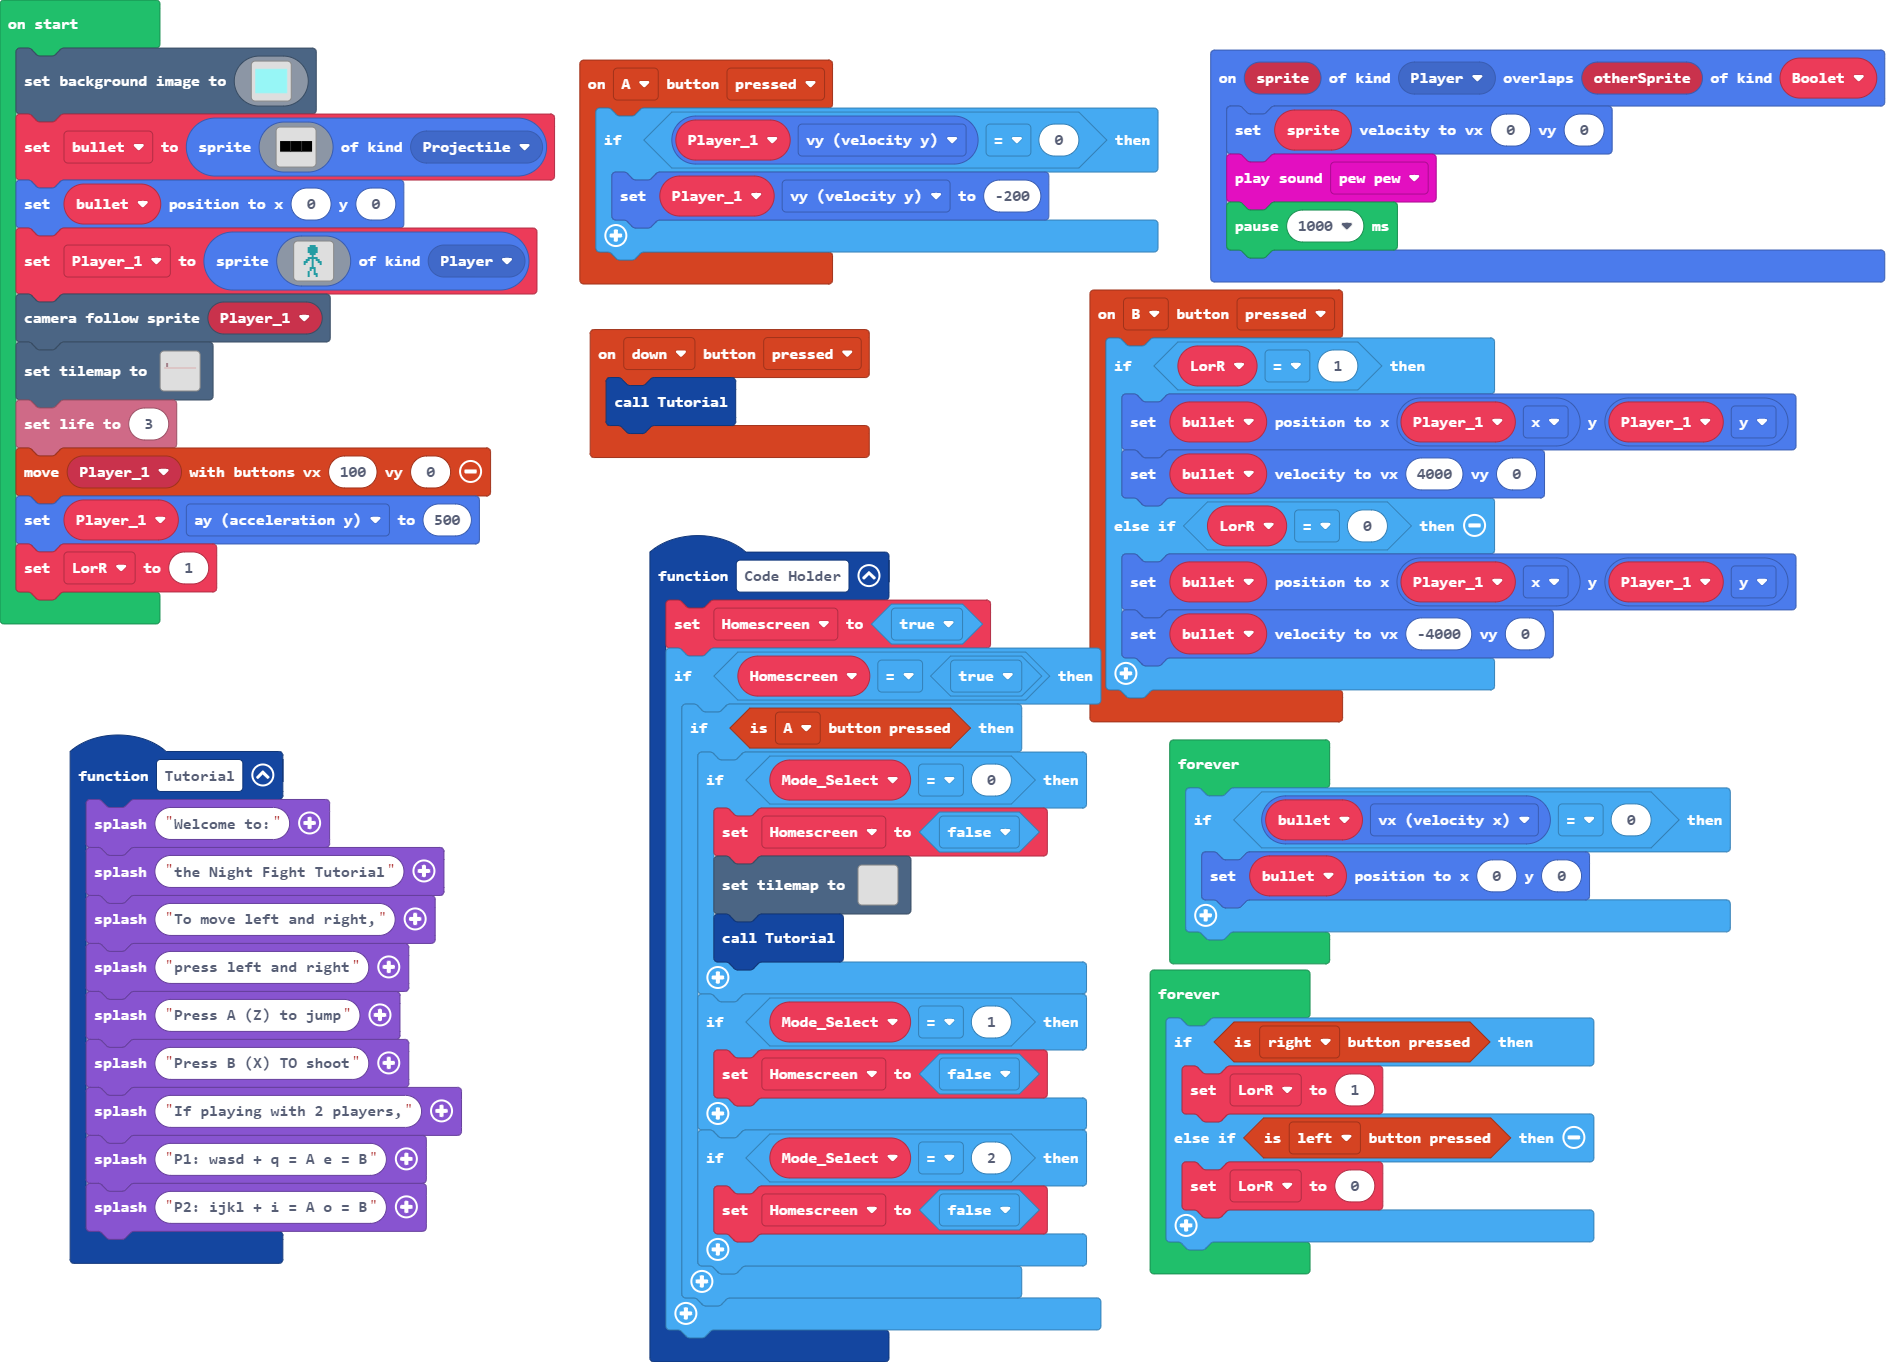
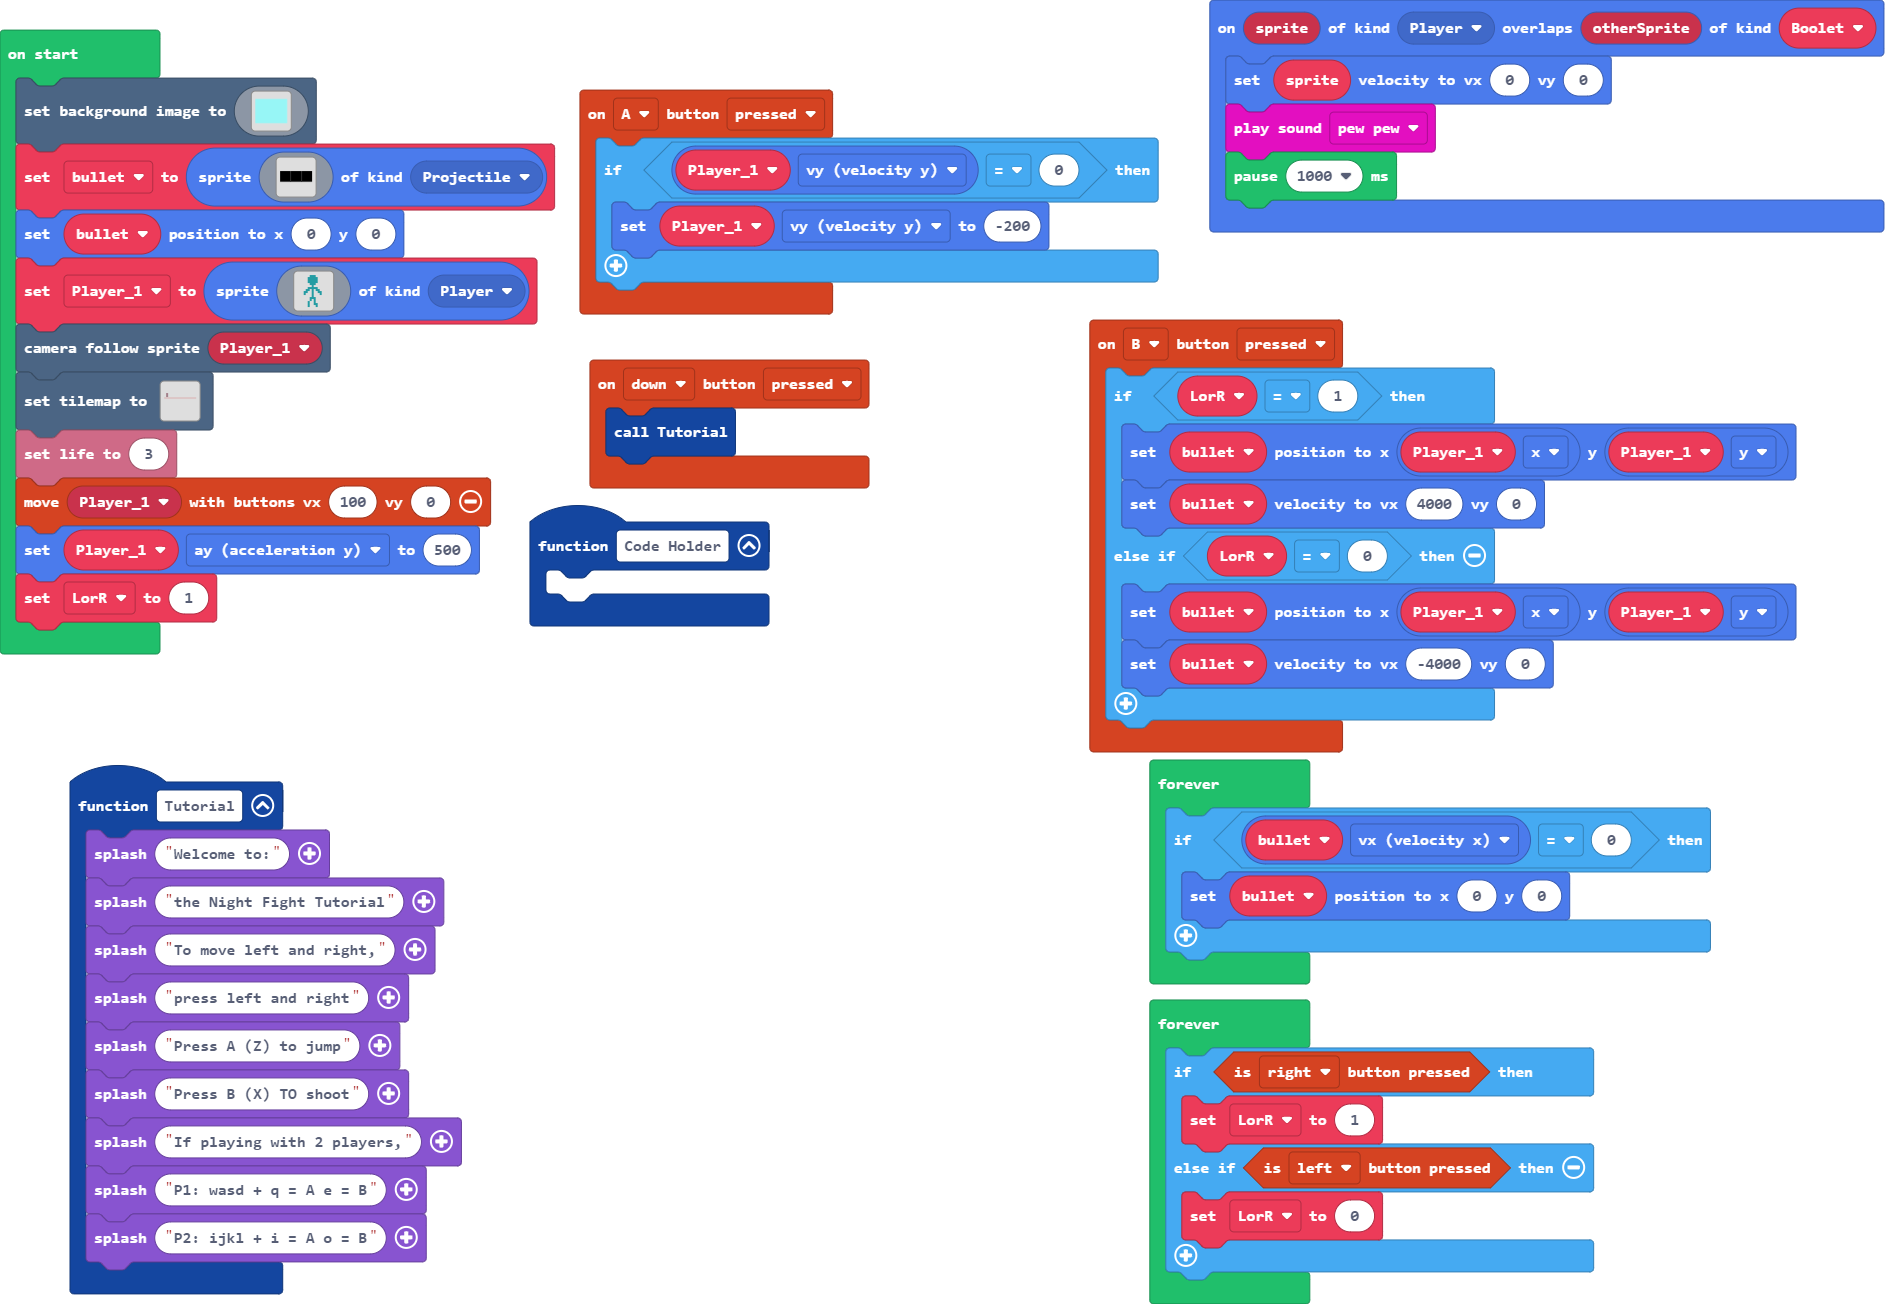
delted code in code holder

diff --git a/tilemap.g.ts b/tilemap.g.ts
@@ -263,6 +263,120 @@ namespace myTiles {
 . . . . . . . . . . . . . . . . 
 . . . . . . . . . . . . . . . . 
 `, [myTiles.transparency16], TileScale.Sixteen);
+            case "level8":
+            case "level8":return tiles.createTilemap(hex`1000100000000000000000000000000000000000000000000000000000000000000000000000000000000000000000000000000000000000000000000000000000000000000000000000000000000000000000000000000000000000000000000000000000000000000000000000000000000000000000000000000000000000000000000000000000000000000000000000000000000000000000000000000000000000000000000000000000000000000000000000000000000000000000000000000000000000000000000000000000000000000000000000000000000000000000000000000000000000000000000000000000000000000000000000000000000000`, img`
+. . . . . . . . . . . . . . . . 
+. . . . . . . . . . . . . . . . 
+. . . . . . . . . . . . . . . . 
+. . . . . . . . . . . . . . . . 
+. . . . . . . . . . . . . . . . 
+. . . . . . . . . . . . . . . . 
+. . . . . . . . . . . . . . . . 
+. . . . . . . . . . . . . . . . 
+. . . . . . . . . . . . . . . . 
+. . . . . . . . . . . . . . . . 
+. . . . . . . . . . . . . . . . 
+. . . . . . . . . . . . . . . . 
+. . . . . . . . . . . . . . . . 
+. . . . . . . . . . . . . . . . 
+. . . . . . . . . . . . . . . . 
+. . . . . . . . . . . . . . . . 
+`, [myTiles.transparency16], TileScale.Sixteen);
+            case "level9":
+            case "level9":return tiles.createTilemap(hex`1000100000000000000000000000000000000000000000000000000000000000000000000000000000000000000000000000000000000000000000000000000000000000000000000000000000000000000000000000000000000000000000000000000000000000000000000000000000000000000000000000000000000000000000000000000000000000000000000000000000000000000000000000000000000000000000000000000000000000000000000000000000000000000000000000000000000000000000000000000000000000000000000000000000000000000000000000000000000000000000000000000000000000000000000000000000000000`, img`
+. . . . . . . . . . . . . . . . 
+. . . . . . . . . . . . . . . . 
+. . . . . . . . . . . . . . . . 
+. . . . . . . . . . . . . . . . 
+. . . . . . . . . . . . . . . . 
+. . . . . . . . . . . . . . . . 
+. . . . . . . . . . . . . . . . 
+. . . . . . . . . . . . . . . . 
+. . . . . . . . . . . . . . . . 
+. . . . . . . . . . . . . . . . 
+. . . . . . . . . . . . . . . . 
+. . . . . . . . . . . . . . . . 
+. . . . . . . . . . . . . . . . 
+. . . . . . . . . . . . . . . . 
+. . . . . . . . . . . . . . . . 
+. . . . . . . . . . . . . . . . 
+`, [myTiles.transparency16], TileScale.Sixteen);
+            case "level10":
+            case "level10":return tiles.createTilemap(hex`1000100000000000000000000000000000000000000000000000000000000000000000000000000000000000000000000000000000000000000000000000000000000000000000000000000000000000000000000000000000000000000000000000000000000000000000000000000000000000000000000000000000000000000000000000000000000000000000000000000000000000000000000000000000000000000000000000000000000000000000000000000000000000000000000000000000000000000000000000000000000000000000000000000000000000000000000000000000000000000000000000000000000000000000000000000000000000`, img`
+. . . . . . . . . . . . . . . . 
+. . . . . . . . . . . . . . . . 
+. . . . . . . . . . . . . . . . 
+. . . . . . . . . . . . . . . . 
+. . . . . . . . . . . . . . . . 
+. . . . . . . . . . . . . . . . 
+. . . . . . . . . . . . . . . . 
+. . . . . . . . . . . . . . . . 
+. . . . . . . . . . . . . . . . 
+. . . . . . . . . . . . . . . . 
+. . . . . . . . . . . . . . . . 
+. . . . . . . . . . . . . . . . 
+. . . . . . . . . . . . . . . . 
+. . . . . . . . . . . . . . . . 
+. . . . . . . . . . . . . . . . 
+. . . . . . . . . . . . . . . . 
+`, [myTiles.transparency16], TileScale.Sixteen);
+            case "level11":
+            case "level11":return tiles.createTilemap(hex`1000100000000000000000000000000000000000000000000000000000000000000000000000000000000000000000000000000000000000000000000000000000000000000000000000000000000000000000000000000000000000000000000000000000000000000000000000000000000000000000000000000000000000000000000000000000000000000000000000000000000000000000000000000000000000000000000000000000000000000000000000000000000000000000000000000000000000000000000000000000000000000000000000000000000000000000000000000000000000000000000000000000000000000000000000000000000000`, img`
+. . . . . . . . . . . . . . . . 
+. . . . . . . . . . . . . . . . 
+. . . . . . . . . . . . . . . . 
+. . . . . . . . . . . . . . . . 
+. . . . . . . . . . . . . . . . 
+. . . . . . . . . . . . . . . . 
+. . . . . . . . . . . . . . . . 
+. . . . . . . . . . . . . . . . 
+. . . . . . . . . . . . . . . . 
+. . . . . . . . . . . . . . . . 
+. . . . . . . . . . . . . . . . 
+. . . . . . . . . . . . . . . . 
+. . . . . . . . . . . . . . . . 
+. . . . . . . . . . . . . . . . 
+. . . . . . . . . . . . . . . . 
+. . . . . . . . . . . . . . . . 
+`, [myTiles.transparency16], TileScale.Sixteen);
+            case "level12":
+            case "level12":return tiles.createTilemap(hex`1000100000000000000000000000000000000000000000000000000000000000000000000000000000000000000000000000000000000000000000000000000000000000000000000000000000000000000000000000000000000000000000000000000000000000000000000000000000000000000000000000000000000000000000000000000000000000000000000000000000000000000000000000000000000000000000000000000000000000000000000000000000000000000000000000000000000000000000000000000000000000000000000000000000000000000000000000000000000000000000000000000000000000000000000000000000000000`, img`
+. . . . . . . . . . . . . . . . 
+. . . . . . . . . . . . . . . . 
+. . . . . . . . . . . . . . . . 
+. . . . . . . . . . . . . . . . 
+. . . . . . . . . . . . . . . . 
+. . . . . . . . . . . . . . . . 
+. . . . . . . . . . . . . . . . 
+. . . . . . . . . . . . . . . . 
+. . . . . . . . . . . . . . . . 
+. . . . . . . . . . . . . . . . 
+. . . . . . . . . . . . . . . . 
+. . . . . . . . . . . . . . . . 
+. . . . . . . . . . . . . . . . 
+. . . . . . . . . . . . . . . . 
+. . . . . . . . . . . . . . . . 
+. . . . . . . . . . . . . . . . 
+`, [myTiles.transparency16], TileScale.Sixteen);
+            case "level13":
+            case "level13":return tiles.createTilemap(hex`1000100000000000000000000000000000000000000000000000000000000000000000000000000000000000000000000000000000000000000000000000000000000000000000000000000000000000000000000000000000000000000000000000000000000000000000000000000000000000000000000000000000000000000000000000000000000000000000000000000000000000000000000000000000000000000000000000000000000000000000000000000000000000000000000000000000000000000000000000000000000000000000000000000000000000000000000000000000000000000000000000000000000000000000000000000000000000`, img`
+. . . . . . . . . . . . . . . . 
+. . . . . . . . . . . . . . . . 
+. . . . . . . . . . . . . . . . 
+. . . . . . . . . . . . . . . . 
+. . . . . . . . . . . . . . . . 
+. . . . . . . . . . . . . . . . 
+. . . . . . . . . . . . . . . . 
+. . . . . . . . . . . . . . . . 
+. . . . . . . . . . . . . . . . 
+. . . . . . . . . . . . . . . . 
+. . . . . . . . . . . . . . . . 
+. . . . . . . . . . . . . . . . 
+. . . . . . . . . . . . . . . . 
+. . . . . . . . . . . . . . . . 
+. . . . . . . . . . . . . . . . 
+. . . . . . . . . . . . . . . . 
+`, [myTiles.transparency16], TileScale.Sixteen);
         }
         return null;
     })

diff --git a/main.ts b/main.ts
@@ -14,23 +14,7 @@ controller.A.onEvent(ControllerButtonEvent.Pressed, function () {
     }
 })
 function Code_Holder () {
-    Homescreen = true
-    if (Homescreen == true) {
-        if (controller.A.isPressed()) {
-            let Mode_Select = 0
-            if (Mode_Select == 0) {
-                Homescreen = false
-                tiles.setTilemap(tilemap`level3`)
-                Tutorial()
-            }
-            if (Mode_Select == 1) {
-                Homescreen = false
-            }
-            if (Mode_Select == 2) {
-                Homescreen = false
-            }
-        }
-    }
+	
 }
 controller.down.onEvent(ControllerButtonEvent.Pressed, function () {
     Tutorial()
@@ -51,7 +35,6 @@ sprites.onOverlap(SpriteKind.Player, Boolet, function (sprite, otherSprite) {
     music.pewPew.play()
     pause(1000)
 })
-let Homescreen = false
 let LorR = 0
 let Player_1: Sprite = null
 let bullet: Sprite = null
